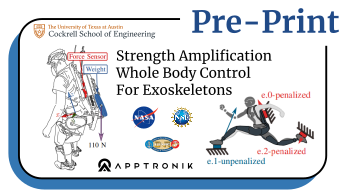
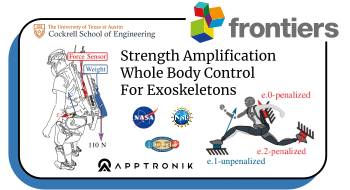
changed the sagit image.

Changed region(s): [[0.3143, 0.2368, 0.8, 0.5], [0.5143, 0.0, 0.9714, 0.2368]]

diff --git a/index.html b/index.html
@@ -63,7 +63,7 @@
       <p style="text-align:justify; text-justify:inter-word">
         <a href="Preprints/ThomasGregg2021CDCpre.pdf"><img width="350" src=images/GProject/GProject-AES.png></a>
         <a href="Preprints/ThomasRouse2021DWAbstract.pdf"><img width="350" src=images/GProject/GProject-NL-Springs.png></a>
-        <a href="Preprints/ThomasEA2021FrontiersPre.pdf"><img width="350" src=images/GProject/GProject-Sagit.png></a>
+        <a href="https://www.frontiersin.org/articles/10.3389/frobt.2021.720231/full"><img width="350" src=images/GProject/GProject-Sagit.png></a>
         <a href="Preprints/ThomasLinDivekarNeslerGreggREHABPoster2020.pdf"><img width="350" src=images/GProject/GProject-TIPO.png></a>
         <a href="https://ieeexplore.ieee.org/document/9224374"><img width="350" src=images/GProject/GProject-JND.png></a>
         <a href="https://ieeexplore.ieee.org/document/9492308"><img width="350" src=images/GProject/GProject-JLR.png></a>
